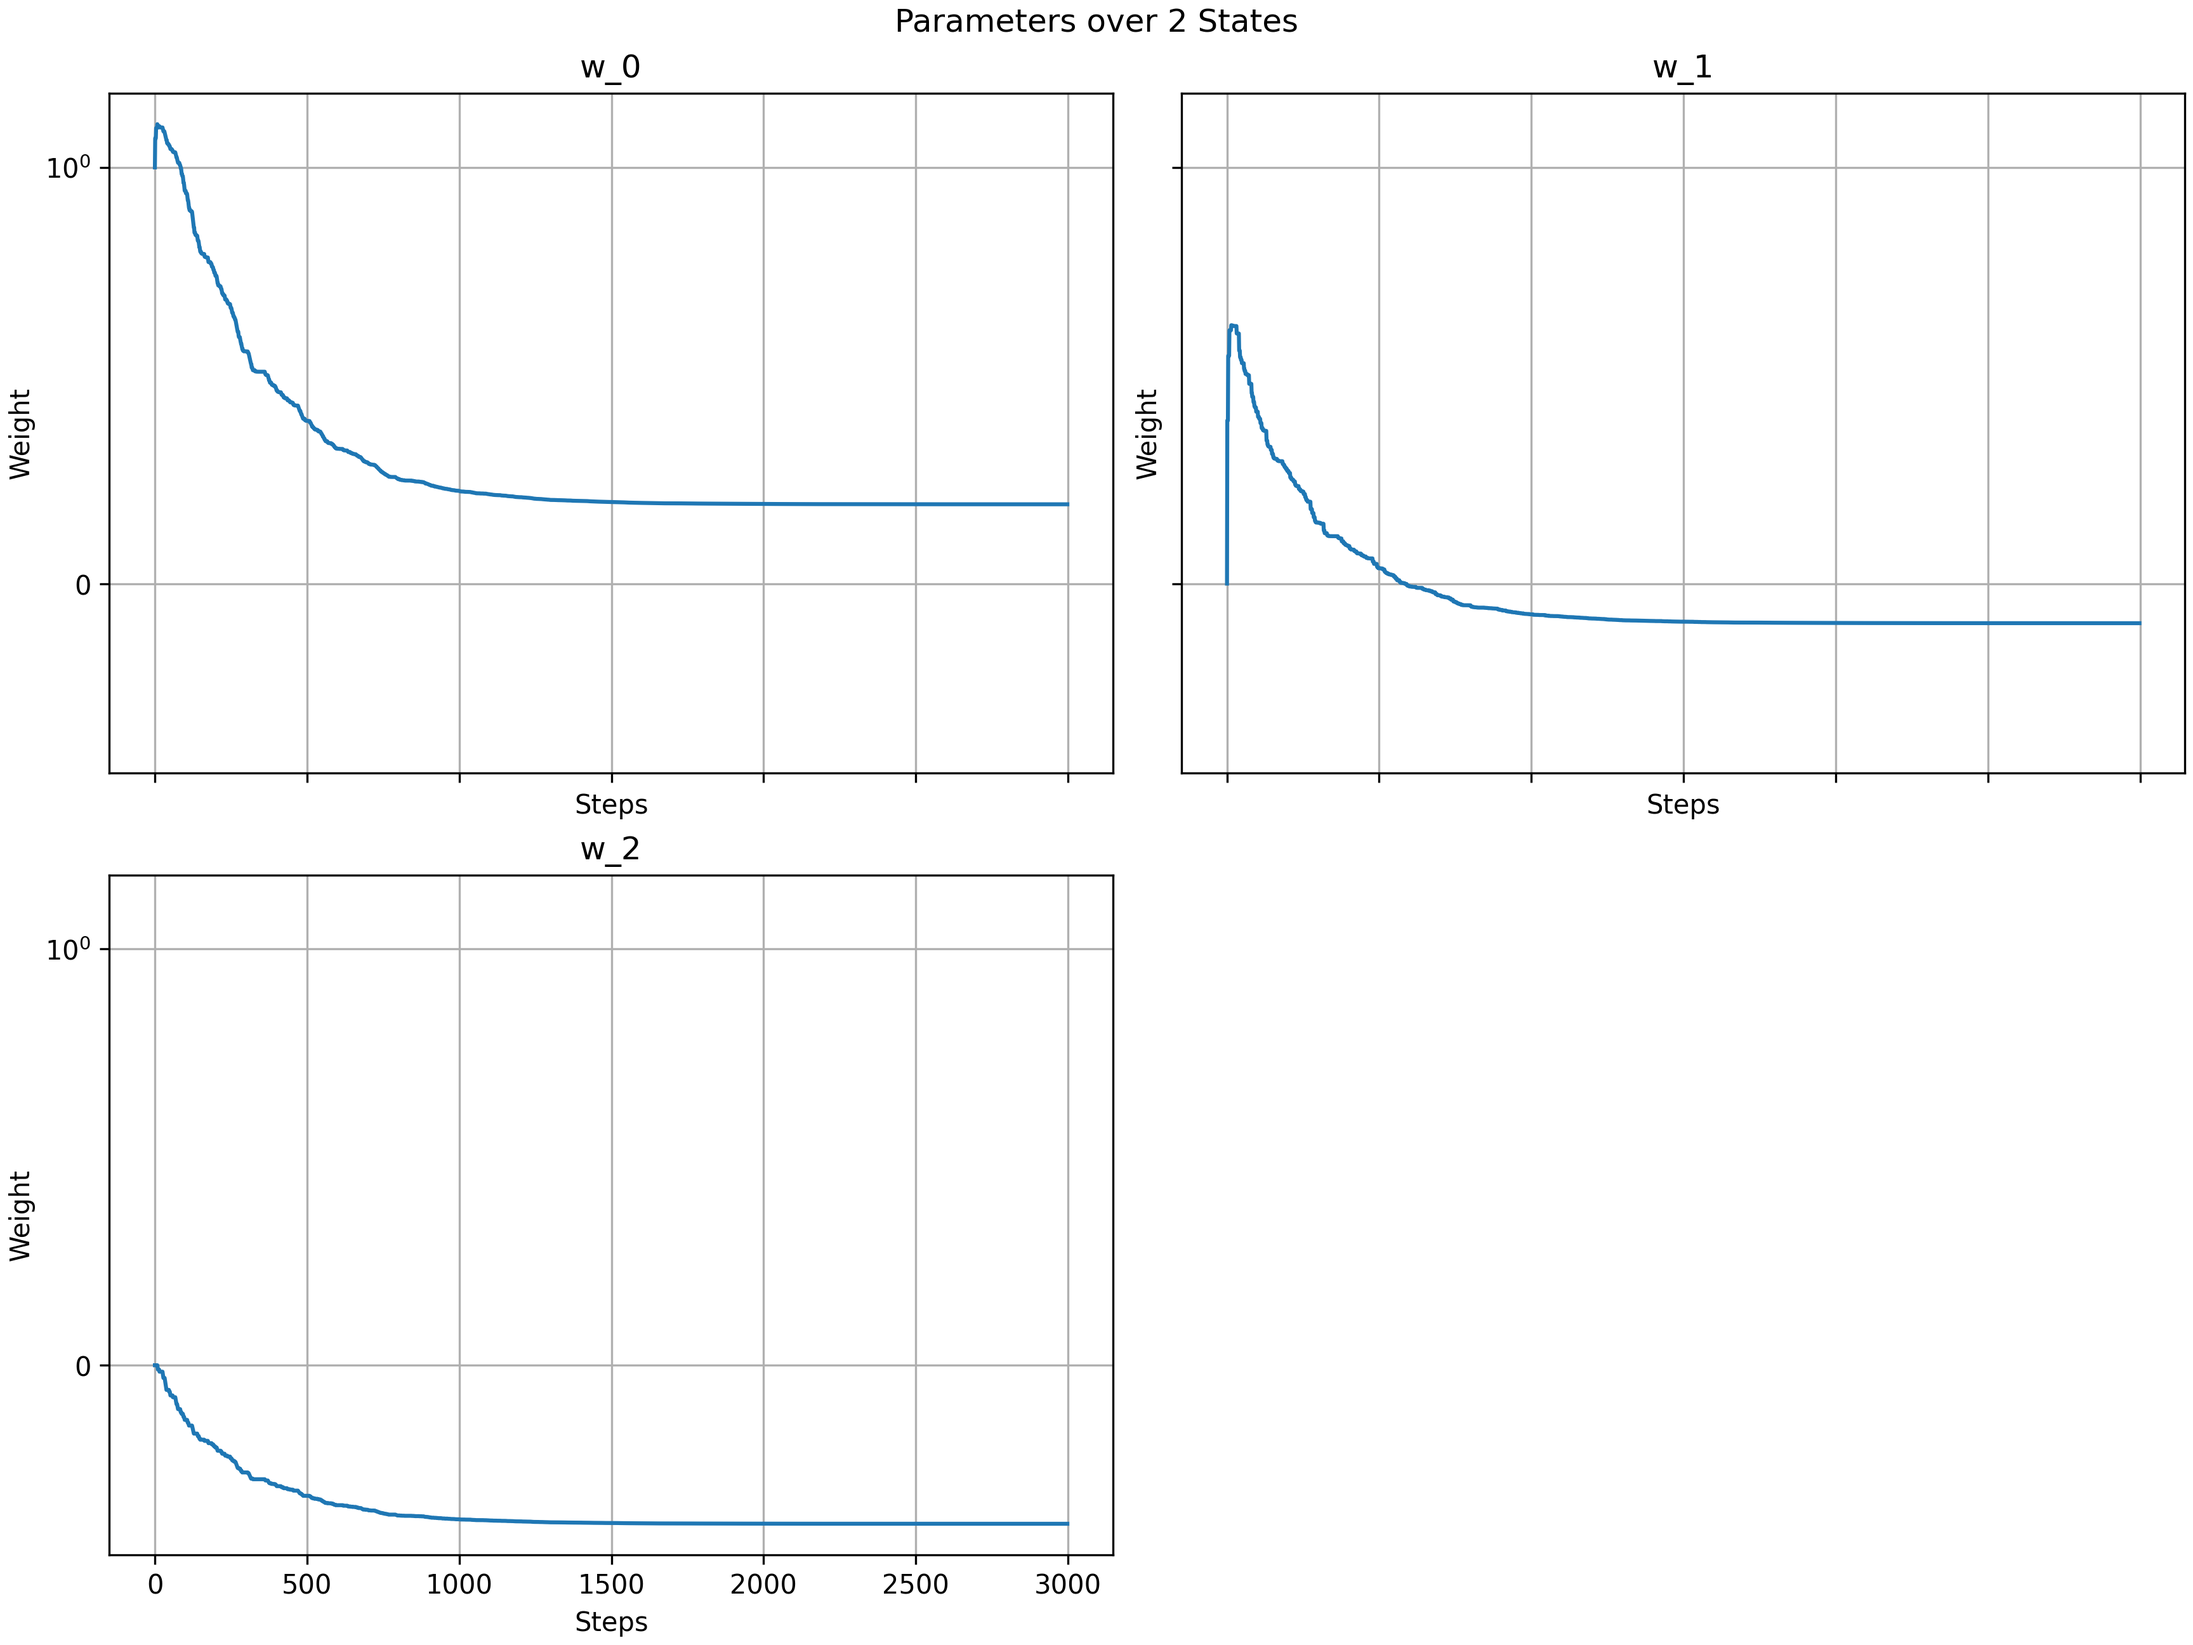
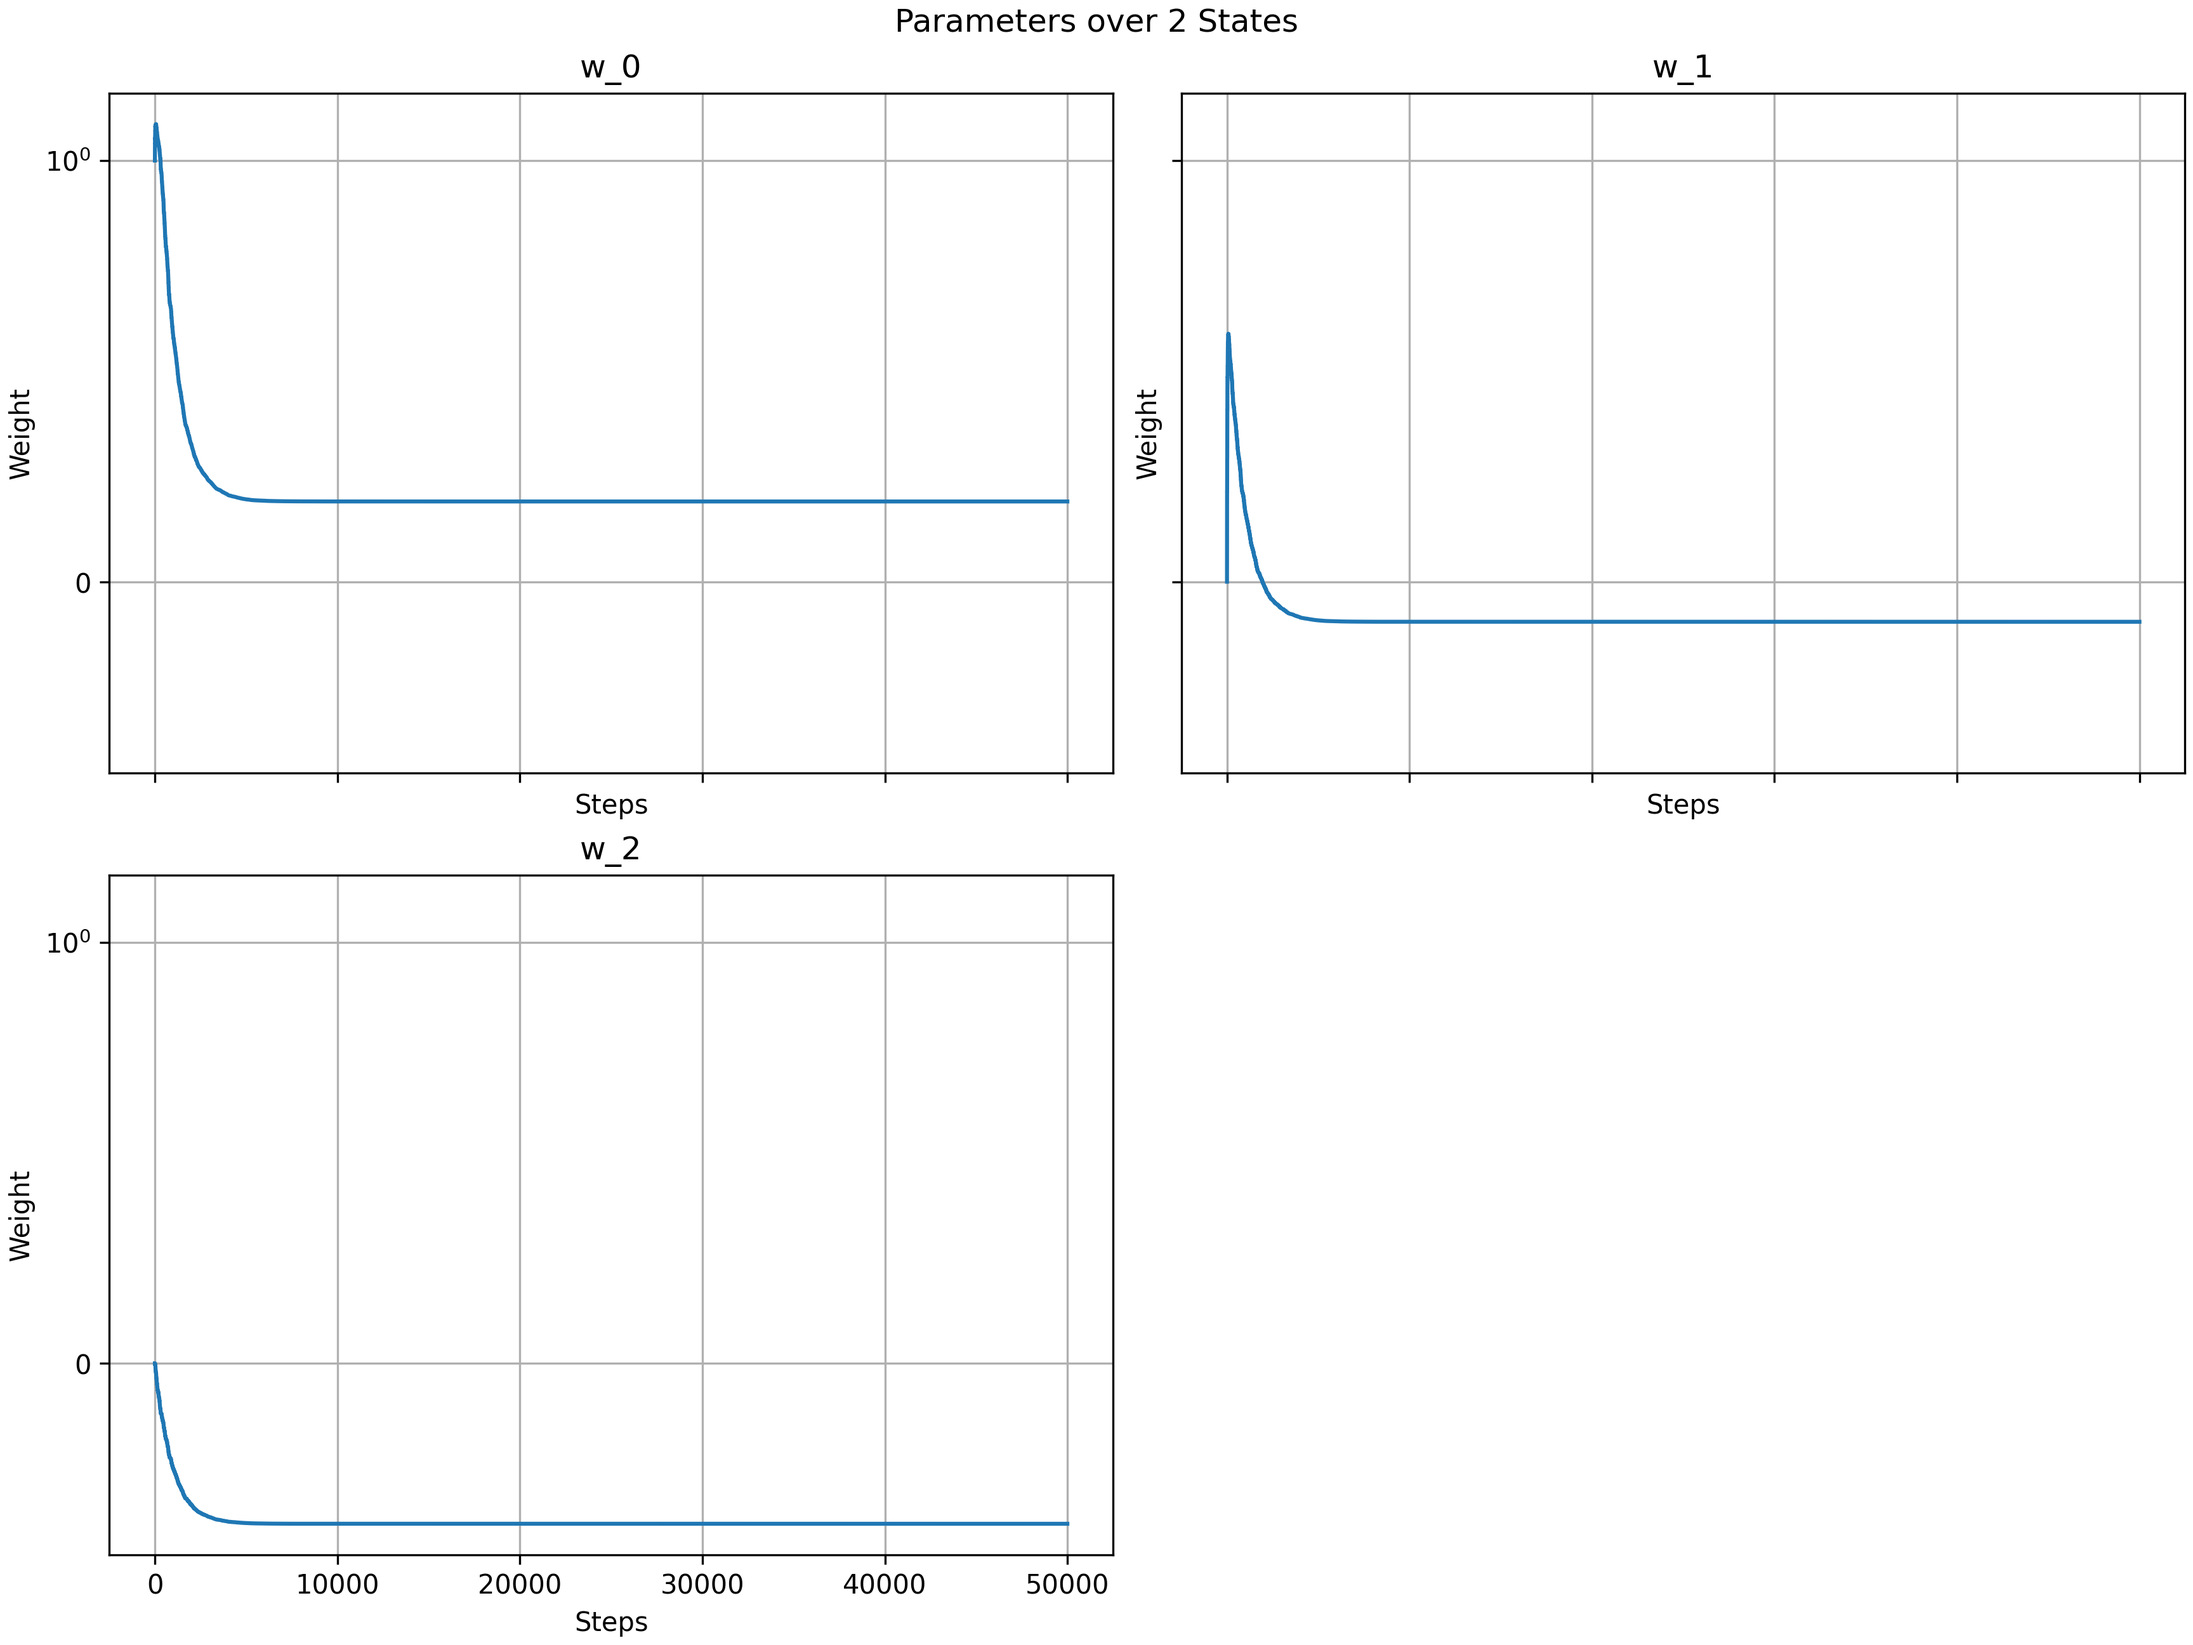
Fixed a bug in action selection in behaviour policy.

diff --git a/src/linear_approximation.py b/src/linear_approximation.py
@@ -11,7 +11,7 @@ class LAAgent:
         self.no_actions = no_actions
 
         self.gamma = 0.99
-        self.learning_rate = 0.1
+        self.learning_rate = 0.03
 
         self.G = np.zeros((self.no_states, self.no_states + 1))
 
@@ -55,7 +55,7 @@ class LAAgent:
 
     def step(self, observation, reward, terminated):
         # sampling from behaviour policy.
-        action = self.np_random.choice(list(range(self.no_actions)), p=[1 - 1/self.no_states, 1/self.no_states])
+        action = self.np_random.choice(list(range(self.no_actions)), p=[1/self.no_states, 1 - 1/self.no_states])
         if self.train:
             self.trajectory.extend([observation, reward, terminated, action])
             if len(self.trajectory) >= 8:

diff --git a/src/main.py b/src/main.py
@@ -29,7 +29,7 @@ def play_episode(env, agent, seed=42):
 
 def la_generate(num_states: int=6,
                 seed: int=42,
-                max_steps: int=3000):
+                max_steps: int=50000):
     env = TimeLimit(gym.make('bairds_counterexample-v0', num_intermediate_states=num_states - 1),
                     max_episode_steps=max_steps)
 
